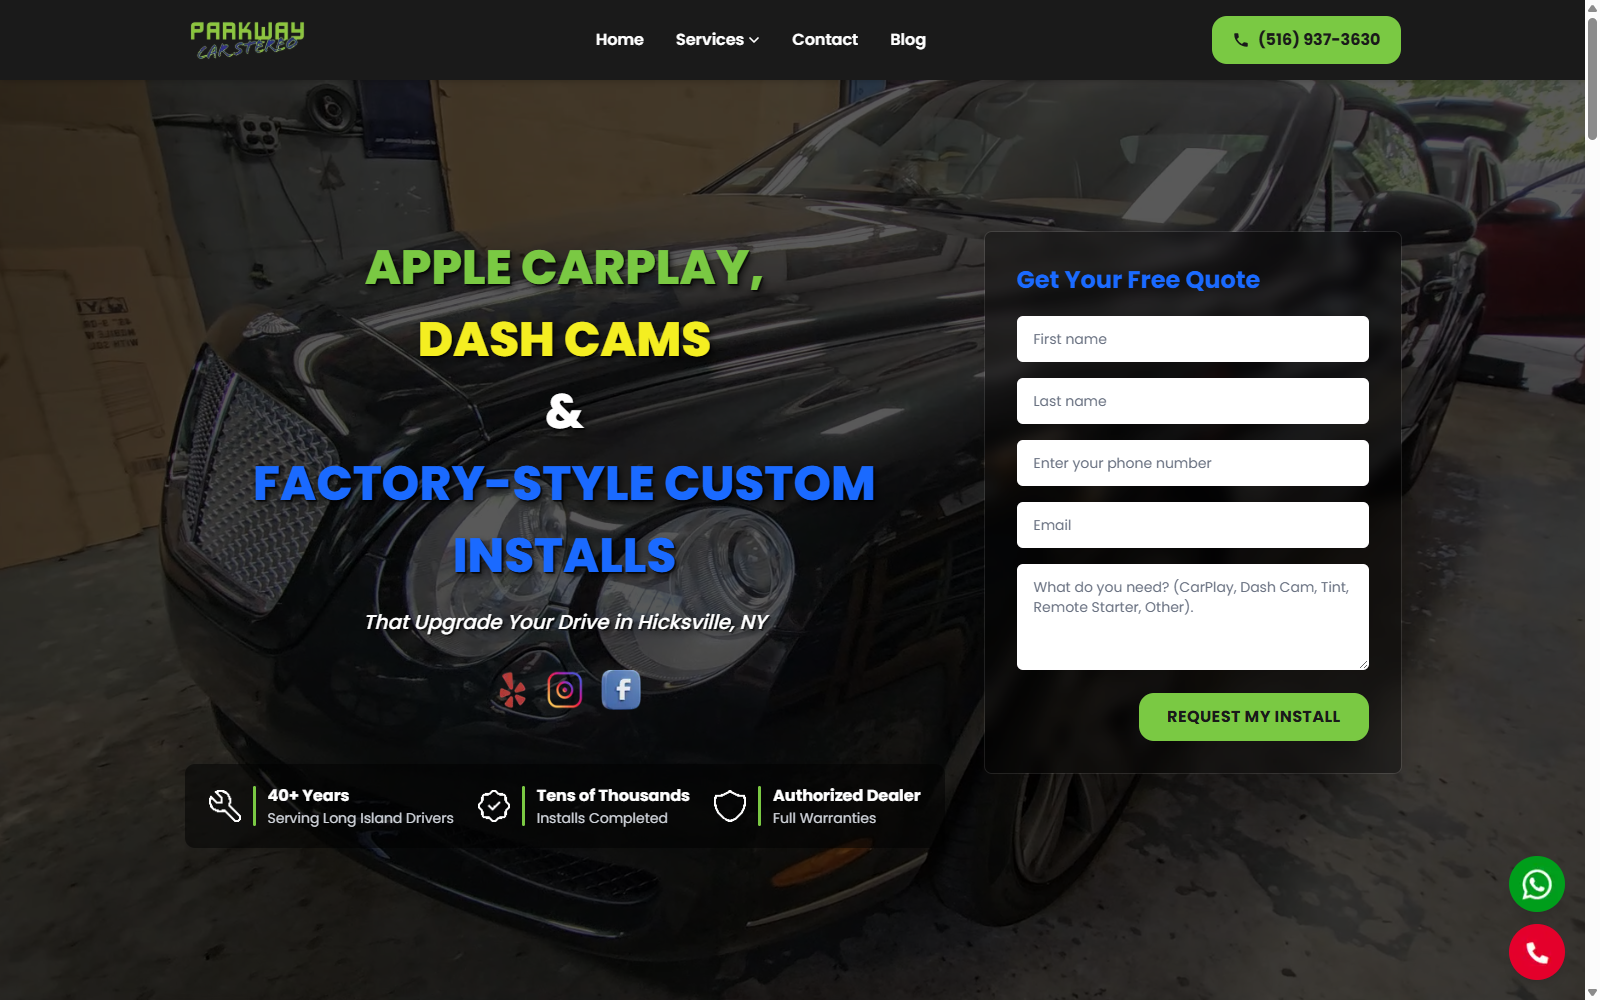
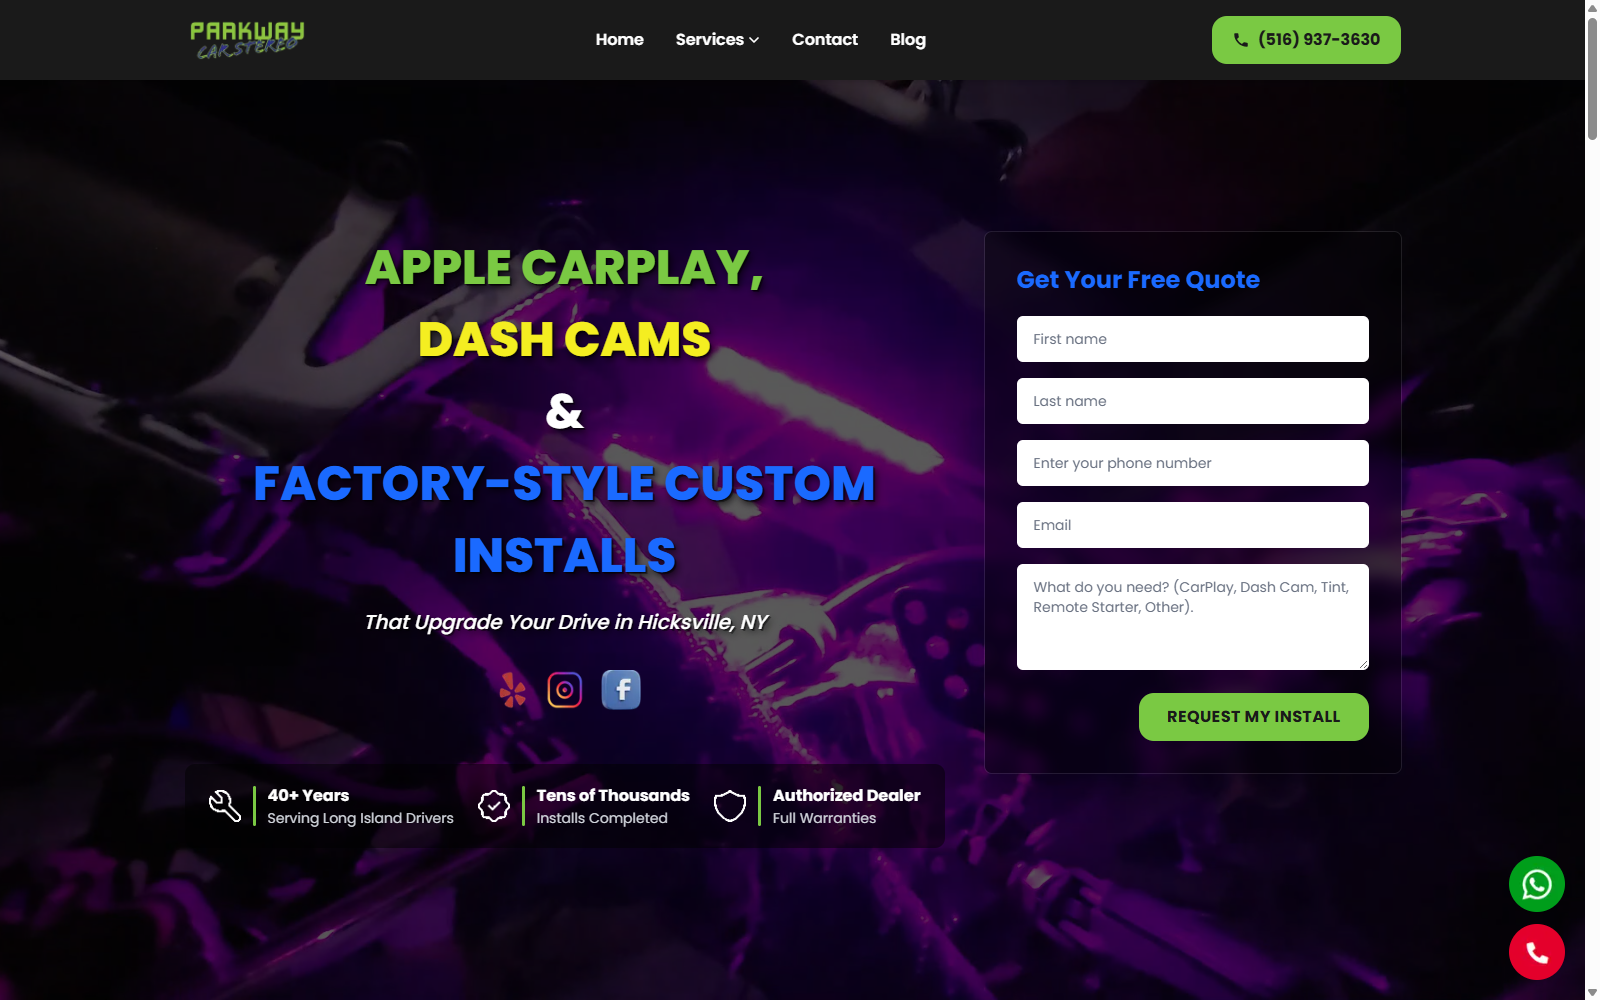
Swap Websites I've Built thumbnails for more distinctive shots
Parkway: same hero screenshot, timed to the vivid LED-glow moment in
the background video instead of the plain parked-car frame.

NY Window Tinting: swapped the hero screenshot for the site's real
before/after tint comparison slider (actual customer VW Jetta job) —
shows interactive functionality, not just page design, and reads
clearly as a static screenshot unlike the tint-darkness picker tool
which needs interaction to make sense.

diff --git a/index.html b/index.html
@@ -266,11 +266,11 @@
     <p class="sites-strip-label">WEBSITES I'VE BUILT</p>
     <div class="sites-strip">
       <a class="site-shot" href="https://parkway-car-stereo.vercel.app" target="_blank" rel="noopener">
-        <img src="assets/sites/parkway-site.png" alt="Parkway Car Stereo website" />
+        <img src="assets/sites/parkway-site.png?v=2" alt="Parkway Car Stereo website" />
         <span>Parkway Car Stereo</span>
       </a>
       <a class="site-shot" href="https://windowtint.newyorkwindowtinting.com/" target="_blank" rel="noopener">
-        <img src="assets/sites/nywindowtinting-site.png" alt="NY Window Tinting PMax landing page" />
+        <img src="assets/sites/nywindowtinting-site.png?v=2" alt="NY Window Tinting PMax landing page" />
         <span>NY Window Tinting</span>
       </a>
       <div class="site-shot site-shot-static">
